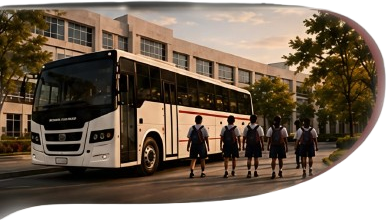
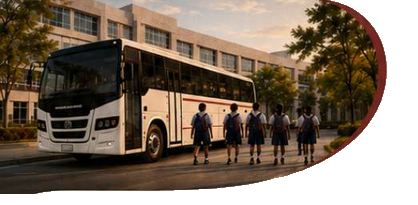
Update School Transportation image and layout to match target Image 1 design

diff --git a/src/pages/HomePage.tsx b/src/pages/HomePage.tsx
@@ -258,28 +258,28 @@ export const HomePage: React.FC<HomePageProps> = ({ setActivePage, onOpenBooking
 
 
       {/* 4. SCHOOL TRANSPORTATION SECTION matching Page 4 design */}
-      <section className="py-16 border-t border-[#D0A769]/30 max-w-[1600px] mx-auto px-4 sm:px-8 lg:px-12 xl:px-16">
+      <section className="py-12 lg:py-16 border-t border-[#D0A769]/30 max-w-[1600px] mx-auto px-4 sm:px-8 lg:px-12 xl:px-16">
         <div className="grid grid-cols-1 lg:grid-cols-12 gap-8 lg:gap-12 items-center">
           
-          {/* Left School Bus Image in Pristine Geometric Arch Frame matching Image 2 */}
+          {/* Left School Bus Image with built-in Dome Arch & Maroon Outline matching Image 1 */}
           <div className="lg:col-span-5 flex justify-center lg:justify-start">
-            <div className="w-full rounded-r-[180px] sm:rounded-r-[220px] rounded-l-2xl overflow-hidden shadow-2xl border-[5px] border-[#4A1A10] bg-[#FFFBF2]">
+            <div className="w-full relative group">
               <img
-                src="/home_assets/school_bus_children.jpg"
+                src="/home_assets/school_bus_children.png"
                 alt="Safe School Transportation Qatar"
-                className="w-full h-[320px] sm:h-[380px] lg:h-[420px] object-cover object-left"
+                className="w-full h-auto max-h-[380px] sm:max-h-[440px] lg:max-h-[480px] object-contain object-left-top filter drop-shadow-[0_12px_24px_rgba(74,26,16,0.12)] transition-transform duration-500 group-hover:scale-[1.01]"
               />
             </div>
           </div>
 
-          {/* Right Content & 4 Icon Columns */}
+          {/* Right Content & 4 Icon Columns matching Image 1 */}
           <div className="lg:col-span-7 space-y-6">
             
             <div className="space-y-2">
-              <span className="text-xs sm:text-sm font-extrabold tracking-widest text-[#B87A5E] uppercase block">
+              <span className="text-xs sm:text-sm font-extrabold tracking-widest text-[#5C1D18] uppercase block">
                 SCHOOL TRANSPORTATION
               </span>
-              <h2 className="text-4xl sm:text-5xl lg:text-6xl font-cormorant font-bold text-[#4A1A10] leading-tight">
+              <h2 className="text-4xl sm:text-5xl lg:text-6xl font-cormorant font-bold text-[#3A1B14] leading-tight tracking-tight">
                 Safe Journeys Start Here.
               </h2>
               <p className="text-sm sm:text-base lg:text-lg text-[#3A2A20] font-light leading-relaxed max-w-xl">
@@ -287,42 +287,42 @@ export const HomePage: React.FC<HomePageProps> = ({ setActivePage, onOpenBooking
               </p>
             </div>
 
-            {/* 4 Feature Columns matching Page 4 icons and vertical dividers */}
-            <div className="grid grid-cols-2 sm:grid-cols-4 gap-0 pt-6 border-t border-[#D0A769]/30 text-center divide-x divide-[#D0A769]/30">
+            {/* 4 Feature Columns matching Image 1 icons and vertical dividers */}
+            <div className="grid grid-cols-2 sm:grid-cols-4 gap-0 pt-6 border-t border-[#D0A769]/30 text-center divide-x divide-[#D0A769]/40">
               
               {/* Safety First */}
-              <div className="px-3 space-y-2">
-                <div className="w-14 h-14 rounded-full bg-[#FFF9EF] border-2 border-[#D0A769]/50 shadow-sm flex items-center justify-center mx-auto ring-4 ring-[#4A1A10]/5">
-                  <ShieldCheck className="w-7 h-7 text-[#4A1A10]" />
+              <div className="px-2 sm:px-3 space-y-2">
+                <div className="w-12 h-12 sm:w-14 sm:h-14 rounded-full bg-[#FAF0DC] border border-[#5C1D18]/30 shadow-xs flex items-center justify-center mx-auto">
+                  <ShieldCheck className="w-6 h-6 sm:w-7 sm:h-7 text-[#5C1D18]" />
                 </div>
-                <h4 className="font-bold text-xs sm:text-sm text-[#4A1A10]">Safety First</h4>
+                <h4 className="font-bold text-xs sm:text-sm text-[#3A1B14]">Safety First</h4>
                 <p className="text-[10px] sm:text-xs text-[#3A2A20]/80 font-light leading-tight">Safety-focused operations.</p>
               </div>
 
               {/* Comfort Assured */}
-              <div className="px-3 space-y-2">
-                <div className="w-14 h-14 rounded-full bg-[#FFF9EF] border-2 border-[#D0A769]/50 shadow-sm flex items-center justify-center mx-auto ring-4 ring-[#4A1A10]/5">
-                  <Bus className="w-7 h-7 text-[#4A1A10]" />
+              <div className="px-2 sm:px-3 space-y-2">
+                <div className="w-12 h-12 sm:w-14 sm:h-14 rounded-full bg-[#FAF0DC] border border-[#5C1D18]/30 shadow-xs flex items-center justify-center mx-auto">
+                  <Bus className="w-6 h-6 sm:w-7 sm:h-7 text-[#5C1D18]" />
                 </div>
-                <h4 className="font-bold text-xs sm:text-sm text-[#4A1A10]">Comfort Assured</h4>
+                <h4 className="font-bold text-xs sm:text-sm text-[#3A1B14]">Comfort Assured</h4>
                 <p className="text-[10px] sm:text-xs text-[#3A2A20]/80 font-light leading-tight">Air-conditioned & comfortable buses.</p>
               </div>
 
               {/* On-Time Every Day */}
-              <div className="px-3 space-y-2">
-                <div className="w-14 h-14 rounded-full bg-[#FFF9EF] border-2 border-[#D0A769]/50 shadow-sm flex items-center justify-center mx-auto ring-4 ring-[#4A1A10]/5">
-                  <Timer className="w-7 h-7 text-[#4A1A10]" />
+              <div className="px-2 sm:px-3 space-y-2">
+                <div className="w-12 h-12 sm:w-14 sm:h-14 rounded-full bg-[#FAF0DC] border border-[#5C1D18]/30 shadow-xs flex items-center justify-center mx-auto">
+                  <Timer className="w-6 h-6 sm:w-7 sm:h-7 text-[#5C1D18]" />
                 </div>
-                <h4 className="font-bold text-xs sm:text-sm text-[#4A1A10]">On-Time Every Day</h4>
+                <h4 className="font-bold text-xs sm:text-sm text-[#3A1B14]">On-Time Every Day</h4>
                 <p className="text-[10px] sm:text-xs text-[#3A2A20]/80 font-light leading-tight">Reliable transport for every schedule.</p>
               </div>
 
               {/* Trusted By Schools */}
-              <div className="px-3 space-y-2">
-                <div className="w-14 h-14 rounded-full bg-[#FFF9EF] border-2 border-[#D0A769]/50 shadow-sm flex items-center justify-center mx-auto ring-4 ring-[#4A1A10]/5">
-                  <Users className="w-7 h-7 text-[#4A1A10]" />
+              <div className="px-2 sm:px-3 space-y-2">
+                <div className="w-12 h-12 sm:w-14 sm:h-14 rounded-full bg-[#FAF0DC] border border-[#5C1D18]/30 shadow-xs flex items-center justify-center mx-auto">
+                  <Users className="w-6 h-6 sm:w-7 sm:h-7 text-[#5C1D18]" />
                 </div>
-                <h4 className="font-bold text-xs sm:text-sm text-[#4A1A10]">Trusted By Schools</h4>
+                <h4 className="font-bold text-xs sm:text-sm text-[#3A1B14]">Trusted By Schools</h4>
                 <p className="text-[10px] sm:text-xs text-[#3A2A20]/80 font-light leading-tight">Professional service you can rely on.</p>
               </div>
 
